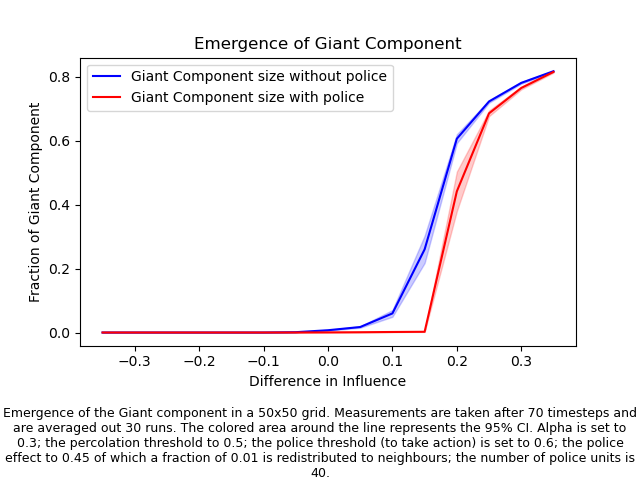
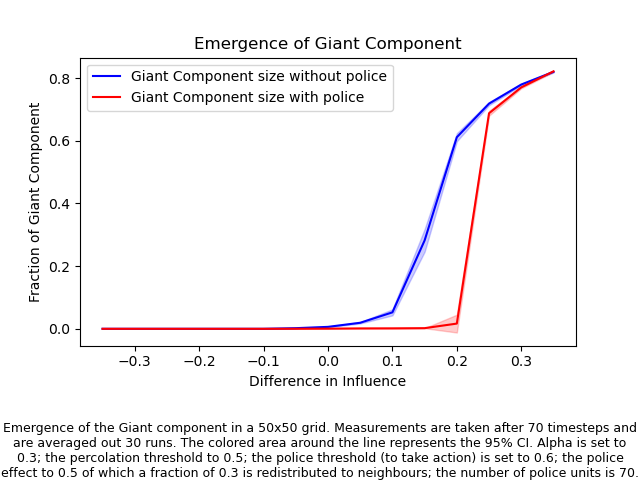
update to emergence plot

diff --git a/emergence_different_percolation_threshold.py b/emergence_different_percolation_threshold.py
@@ -1,0 +1,49 @@
+import numpy as np
+import matplotlib.pyplot as plt
+
+from modules.emergence import simulate_emergence
+
+# For robustness, we analyze the emergence of the giant component for different percolation thresholds
+
+# Define parameters common to every grid size and a list of sizes
+all_y_nop = []
+all_err_nop = []
+grid_size = (50, 50)
+alpha = 0.3
+beta = 1 - alpha
+timesteps = 200
+percolation_threshold_list = [0.3, 0.4, 0.6, 0.8]
+police_threshold = 0.6
+police_effect = 0.5
+redistribution_frac = 0.3
+police_units = 70
+num_simulation = 30
+influence_diff_list = np.linspace(-beta / 2, beta / 2, 15)
+police = False
+save_fig = False
+onlypolice = False
+
+for percolation_threshold in percolation_threshold_list: # Plot the emergence curve for different grids of size LxL
+
+    avg_nop, avg_withp, err_nop, err_withp = simulate_emergence(grid_size=grid_size, timesteps=timesteps, alpha=alpha, 
+                       percolation_threshold=percolation_threshold, police_threshold=police_threshold, police_effect=police_effect, 
+                       redistribution_frac=redistribution_frac, police_units=police_units, num_simulation=num_simulation, title=f'Emergence_perc_thr_{percolation_threshold}', police=police, onlypolice=onlypolice, savefig=save_fig)
+    
+    all_y_nop.append(avg_nop)
+    all_err_nop.append(err_nop)
+
+colors = ['b', 'g', 'r', 'c']
+
+for ind, thr in enumerate(percolation_threshold_list): 
+    plt.plot(influence_diff_list, all_y_nop[ind], label=f'Perc. thr. = {thr}', color=colors[ind])
+    plt.fill_between(influence_diff_list, all_y_nop[ind] - all_err_nop[ind], all_y_nop[ind] + all_err_nop[ind], color=colors[ind], alpha = 0.2)
+
+plt.xlabel('Difference in Influence')
+plt.ylabel('Fraction of Giant Component')
+plt.title('Emergence of Giant Component for different Percolation Thresholds')
+plt.legend()
+plt.subplots_adjust(bottom=0.28)
+plt.figtext(0.5, 0.01, f'Emergence of the Giant component in a {grid_size[0]}x{grid_size[1]} grid. Measurements are taken after {timesteps} timesteps and are averaged out {num_simulation} runs. The colored area around the line represents the 95% CI. Alpha is set to {alpha}; the percolation threshold to {percolation_threshold}; the police threshold (to take action) is set to {police_threshold}; the police effect to {police_effect} of which a fraction of {redistribution_frac} is redistributed to neighbours; the number of police units is {police_units}.',
+                            wrap=True, horizontalalignment='center', fontsize=9)
+plt.savefig('figs/different_percolation_thr.png')
+plt.show()

diff --git a/modules/emergence.py b/modules/emergence.py
@@ -41,11 +41,6 @@ def simulate_emergence(grid_size=(30, 30), timesteps=70, alpha=0.3,
 
     # Generate data for the case with police
     if police:
-        police_threshold = 0.6 # Set the threshold of criminality for police intervention
-        police_effect = 0.45 # Decide by how much criminality is reduced in a cell when police acts
-        redistribution_frac = 0.01 # Decide how much of the criminality is redistributed to neighbouring cells
-        police_units = 40 # Define the number of available police units
-
         all_giant_fractions = []
         average_giant_fractions_withp = []
 
@@ -68,6 +63,9 @@ def simulate_emergence(grid_size=(30, 30), timesteps=70, alpha=0.3,
         # Plot the size of the giant component after the fixed amount of timesteps (and a fixed threshold) for every influence difference value (with 95% CI)
         plt.plot(influence_diff_list, average_giant_fractions_withp, color = 'r', label = 'Giant Component size with police')
         plt.fill_between(influence_diff_list, average_giant_fractions_withp - error_margin_withp, average_giant_fractions_withp + error_margin_withp, color = 'r', alpha = 0.2)
+    else:
+        error_margin_withp = 0
+        average_giant_fractions_withp = 0
 
     plt.title('Emergence of Giant Component')
     plt.xlabel('Difference in Influence')
@@ -85,6 +83,6 @@ def simulate_emergence(grid_size=(30, 30), timesteps=70, alpha=0.3,
 
     if savefig:
         plt.savefig(f'figs/{title}.png')
-        plt.show()
+    plt.show()
 
     return average_giant_fractions_nop, average_giant_fractions_withp, error_margin_nop, error_margin_withp

diff --git a/emergence_different_police_amounts.py b/emergence_different_police_amounts.py
@@ -14,9 +14,9 @@ beta = 1 - alpha
 timesteps = 70
 percolation_threshold = 0.5
 police_threshold = 0.7
-police_effect = 0.3, 
+police_effect = 0.3 
 redistribution_frac = 0.7
-police_units = [100, 1000, 3000, 5000]
+police_units = [30, 100, 200, 300]
 side_size = [30, 50, 70, 90]
 num_simulation = 30
 influence_diff_list = np.linspace(-beta / 2, beta / 2, 15)
@@ -54,6 +54,6 @@ plt.title('Data Collapse for Different Amounts of Police Units')
 plt.legend(handles, labels)
 plt.subplots_adjust(bottom=0.28)
 plt.figtext(0.5, 0.01, f'Emergence of the Giant component in a {side_size[0]}x{side_size[0]} grid (for the blue line). The cases with police are simulated on grids with side lentgh of {police_units} (red lines). Measurements are taken after {timesteps} timesteps and are averaged out {num_simulation} runs. The colored area around the line represents the 95% CI. Alpha is set to {alpha}; the percolation threshold to {percolation_threshold}; the police threshold (to take action) is set to {police_threshold}; the police effect to {police_effect} of which a fraction of {redistribution_frac} is redistributed to neighbours; the number of police units is {police_units}.',
-                            wrap=True, horizontalalignment='center', fontsize=9)
+            wrap=True, horizontalalignment='center', fontsize=9)
 plt.savefig('figs/different_police_amounts_emergence.png')
 plt.show()

diff --git a/emergence_different_grid_sizes.py b/emergence_different_grid_sizes.py
@@ -15,10 +15,10 @@ alpha = 0.3
 beta = 1 - alpha
 timesteps = 70
 percolation_threshold = 0.5
-police_threshold = 0.7
-police_effect = 0.3, 
-redistribution_frac = 0.7
-police_units = 30
+police_threshold = 0.6
+police_effect = 0.5
+redistribution_frac = 0.3
+police_units = 70
 num_simulation = 30
 influence_diff_list = np.linspace(-beta / 2, beta / 2, 15)
 
